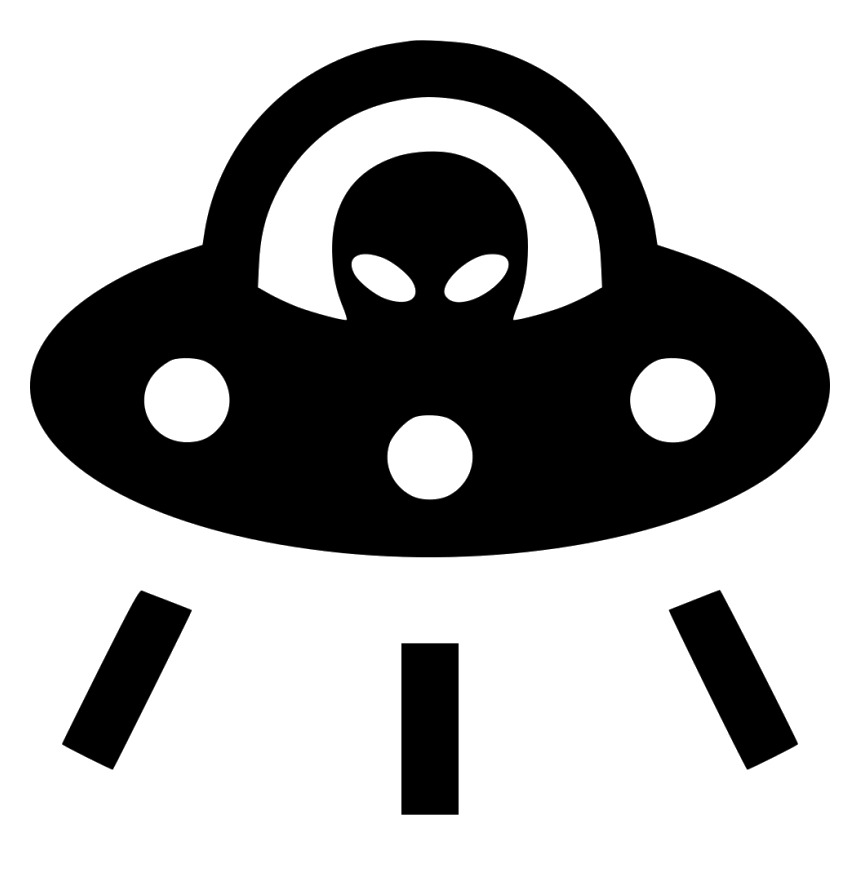
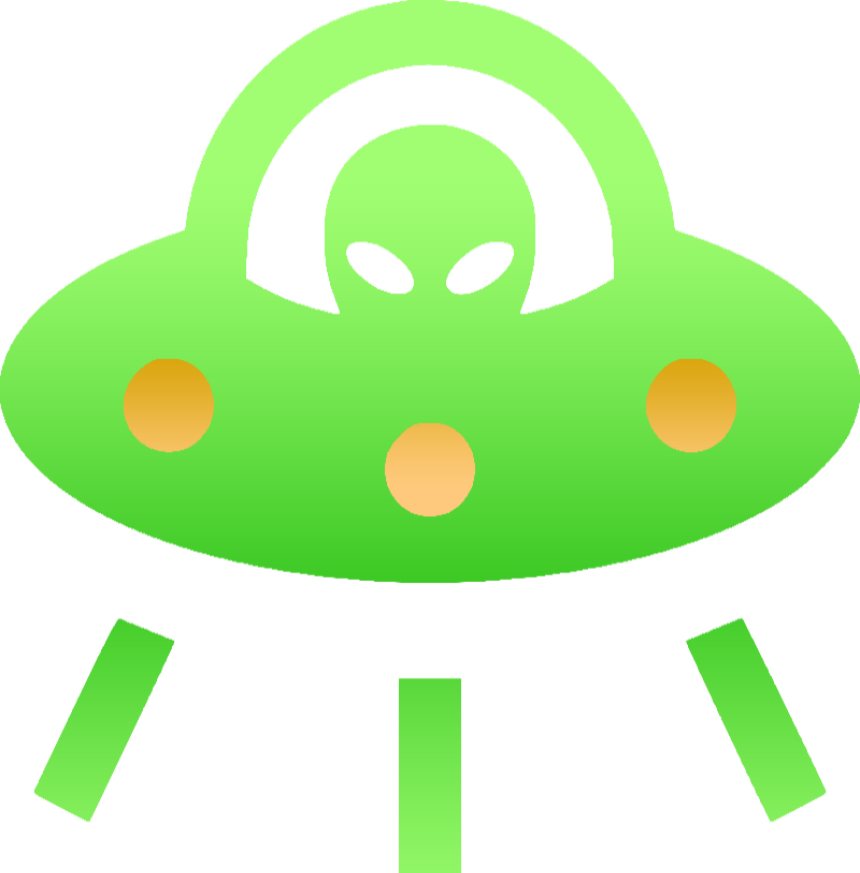
final commit

diff --git a/src/main.rs b/src/main.rs
@@ -12,14 +12,43 @@ use player::*;
 use enemy::*;
 use bullet::*;
 
-fn draw_planet(d: &mut RaylibDrawHandle, cir: &Circle) {
-    d.draw_circle(cir.center.x as i32, cir.center.y as i32, cir.radius, Color::ORANGE);
+
+fn draw_planet(d: &mut RaylibDrawHandle, cir: &Circle, texture: &Texture2D, angle: f32) {
+    //d.draw_circle_lines(cir.center.x as i32, cir.center.y as i32, cir.radius, Color::ORANGE);
+    let src = Rectangle::new (
+        0.0,
+        0.0,
+        texture.width as f32,
+        texture.height as f32,
+    );
+    let rect: Rectangle = Rectangle::new(cir.center.x, cir.center.y, cir.radius*2.0, cir.radius*2.0);
+
+    d.draw_texture_pro(texture, src, rect, Vector2::new(rect.width/2.0, rect.height/2.0), angle, Color::WHITE);
+}
+
+fn draw_bg(d: &mut RaylibDrawHandle, texture: &Texture2D) {
+    //d.draw_circle_lines(cir.center.x as i32, cir.center.y as i32, cir.radius, Color::ORANGE);
+    let src = Rectangle::new (
+        0.0,
+        0.0,
+        texture.width as f32,
+        texture.height as f32,
+    );
+
+    let rect: Rectangle = Rectangle::new(
+        0.0,
+        0.0,
+        1280.0,
+        960.0
+    );
+
+    d.draw_texture_pro(texture, src, rect, Vector2::new(0.0, 0.0), 0.0, Color::WHITE);
 }
 
 fn main() {
     let (mut rl, thread) = raylib::init()
         .size(1280, 960)
-        .title("Rusty ahh window")
+        .title("Rust defenders")
         .build();
 
     let width = rl.get_screen_width();
@@ -41,18 +70,22 @@ fn main() {
         angle: 0.0,
         radius: 270.0,
         theta: 0.0,
-        speed: 5.0,
+        speed: 2.0,
         score: 0,
     };
+
+    let mut angle: f32 = 0.0;
 
     let mut enemies: Vec<Enemy> = Vec::new();
     create_enemies(&mut enemies, 10);
 
     let mut bullets: Vec<Bullet> = Vec::new();
 
-    let mut playerTex = rl.load_texture(&thread, "ufo.png").unwrap();
-    let mut bulletTex = rl.load_texture(&thread, "bullet.png").unwrap();
-    let mut rockTex   = rl.load_texture(&thread, "whiteRock.png").unwrap();
+    let playerTex = rl.load_texture(&thread, "ufo.png").unwrap();
+    let bulletTex = rl.load_texture(&thread, "bullet.png").unwrap();
+    let rockTex   = rl.load_texture(&thread, "whiteRock.png").unwrap();
+    let planetTex = rl.load_texture(&thread, "rustplanet.png").unwrap();
+    let bgTex     = rl.load_texture(&thread, "bg.png").unwrap();
 
     while !rl.window_should_close() {
         let mut d = rl.begin_drawing(&thread);
@@ -61,18 +94,22 @@ fn main() {
 
         d.clear_background(Color::WHITE);
 
-        draw_planet(&mut d, &planet);
+
+        angle += 10.0 * dt;
+        draw_bg(&mut d, &bgTex);
 
         update_player(&mut d, &mut player, &mut planet, dt);
         draw_player(&mut d, &player, &thread, &playerTex);
 
         draw_enemies(&mut d, &enemies, &rockTex);
-        update_enemies(&mut d, &mut planet, &mut enemies, &mut player, dt);
+        update_enemies(&mut d, &mut planet, &mut enemies, &mut bullets, &mut player, dt);
 
         create_bullet(&mut d, &mut bullets, &player);
         // pub fn update_bullet(d: &mut RaylibDrawHandle, player: &mut Player, bullet: &mut Vec<Bullet>, enemies: &mut Vec<Enemy>, planet: Circle, dt: f32) {
         update_bullet(&mut d, &mut player, &mut bullets, &mut enemies, &planet, dt);
         draw_bullet(&mut d, &bullets, &bulletTex);
+
+        draw_planet(&mut d, &planet, &planetTex, angle);
 
         let mut s = String::new();
         write!(&mut s, "score = {}", player.score).unwrap();

diff --git a/src/enemy.rs b/src/enemy.rs
@@ -3,13 +3,13 @@ use rand::Rng;
 
 use crate::types::Circle;
 use crate::player::*;
+use crate::bullet::*;
 
 #[repr(i32)]
 pub enum Type {
     ROCK_RED,
     ROCK_YELLOW,
     ROCK_GREEN,
-    ROCK_BLUE,
 }
 
 impl Type{
@@ -18,7 +18,6 @@ impl Type{
             0 => Some(Self::ROCK_RED),
             1 => Some(Self::ROCK_YELLOW),
             2 => Some(Self::ROCK_GREEN),
-            3 => Some(Self::ROCK_BLUE),
             _ => None,
         }
     }
@@ -31,6 +30,7 @@ pub struct Enemy {
     pub radius: f32,
     pub theta: f32,
     pub etype: Type,
+    pub offset: Vector2,
 }
 
 pub fn spawn_outside_screen(rng: &mut impl Rng) -> (f32, f32) {
@@ -68,19 +68,22 @@ pub fn create_enemies(enemies: &mut Vec<Enemy>, n: i32) {
 
     for i in 0..n {
         let (x, y) = spawn_outside_screen(&mut rng);
+        let mut sizex = rng.gen_range(15.0..60.0);
+        let mut sizey = rng.gen_range(15.0..60.0);
 
         enemies.push(Enemy {
             rect: Rectangle::new(
                 x,
                 y,
-                30.0,
-                30.0,
+                sizex,
+                sizey,
             ),
             speed:  rng.gen_range(30.0..200.0),
             angle:  rng.gen_range(0.0..360.0),
             radius: 15.0,
             theta:  0.0,
-            etype: Type::from_i32(rng.gen_range(0..4)).expect("eType Failed"),
+            etype: Type::from_i32(rng.gen_range(0..3)).expect("eType Failed"),
+            offset: Vector2::new(0.0, 0.0),
         });
     }
 }
@@ -95,28 +98,19 @@ pub fn draw_enemies(d: &mut RaylibDrawHandle, enemies: &Vec<Enemy>, texture: &Te
 
     for i in 0..enemies.len() {
         let mut color: Color;
-        let mut x: i32;
 
         match enemies[i].etype {
             Type::ROCK_RED      => {
                 color = Color::RED;
-                x = 0;
             }
             Type::ROCK_YELLOW   => { 
                 color = Color::new(255, 220, 90, 255);
-                x = 1;
             }
             Type::ROCK_GREEN    => {
                 color = Color::GREEN;
-                x = 2;
-            }
-            Type::ROCK_BLUE     => {
-                color = Color::CYAN;
-                x = 3;
             }
             _ => {
-                color = Color::CYAN;
-                x = 3;
+                color = Color::WHITE;
             }
         };
 
@@ -124,62 +118,63 @@ pub fn draw_enemies(d: &mut RaylibDrawHandle, enemies: &Vec<Enemy>, texture: &Te
     }
 }
 
-pub fn update_enemies(d: &mut RaylibDrawHandle, planet: &mut Circle, enemies: &mut Vec<Enemy>, player: &mut Player, dt: f32) {
+pub fn update_enemies(d: &mut RaylibDrawHandle, planet: &mut Circle, enemies: &mut Vec<Enemy>, bullets: &mut Vec<Bullet>, player: &mut Player, dt: f32) {
     let mut rng = rand::thread_rng();
 
     for i in 0..enemies.len() {
-
-        let playerCenter = Vector2 { 
+        let playerCenter = Vector2 {
             x: player.hitbox.center.x,
             y: player.hitbox.center.y 
         };
-        let planetCenter = Vector2 { 
+        let planetCenter = Vector2 {
             x: planet.center.x,
             y: planet.center.y 
         };
-        let enemyCenter  = Vector2 { 
+        let enemyCenter  = Vector2 {
             x: enemies[i].rect.x,
             y: enemies[i].rect.y,
         };
 
+        enemies[i].angle += enemies[i].speed * dt;
+
         let playerRadius = player.hitbox.radius;
         let planetRadius = planet.radius;
-        let enemyRadius  = enemies[i].radius;
 
-        if check_collision_circles(planetCenter, planetRadius, enemyCenter, enemyRadius) {
+        if enemies[i].rect.check_collision_circle_rec(planetCenter, planetRadius) {
             player.score -= 10;
             let (x, y) = spawn_outside_screen(&mut rng);
             enemies[i].rect.x = x;
             enemies[i].rect.y = y;
+            enemies[i].offset.x = rng.gen_range(-200.0..200.0);
+            enemies[i].offset.y = rng.gen_range(-200.0..200.0);
         }
 
-        if check_collision_circles(playerCenter, playerRadius, enemyCenter, enemyRadius) {
+        if enemies[i].rect.check_collision_circle_rec(playerCenter, playerRadius) {
             let mut contact_penalty: i32 = 0;
+
             match enemies[i].etype {
                 Type::ROCK_RED      => {
                     contact_penalty = -100;
                 }
-                Type::ROCK_YELLOW   => { 
+                Type::ROCK_YELLOW   => {
                     contact_penalty = -50;
                 }
                 Type::ROCK_GREEN    => {
-                    contact_penalty = 10;
-                }
-                Type::ROCK_BLUE     => {
                     contact_penalty = 100;
                 }
                 _ => {
                     contact_penalty = 0;
                 }
             };
+
             player.score -= contact_penalty;
             let (x, y) = spawn_outside_screen(&mut rng);
             enemies[i].rect.x = x;
             enemies[i].rect.y = y;
         }
 
-        let dx = planet.center.x - enemies[i].rect.x;
-        let dy = planet.center.y - enemies[i].rect.y;
+        let dx = planet.center.x + enemies[i].offset.x - enemies[i].rect.x;
+        let dy = planet.center.y + enemies[i].offset.y - enemies[i].rect.y;
 
         let dist = (dx * dx + dy * dy).sqrt();
 

diff --git a/src/bullet.rs b/src/bullet.rs
@@ -87,6 +87,6 @@ pub fn draw_bullet(d: &mut RaylibDrawHandle, bullet: &Vec<Bullet>, texture: &Tex
     );
 
     for i in 0..bullet.len() {
-        d.draw_texture_pro(texture, src, bullet[i].rect, Vector2::new(bullet[i].rect.width/2.0, bullet[i].rect.height/2.0), bullet[i].angle, Color::RED);
+        d.draw_texture_pro(texture, src, bullet[i].rect, Vector2::new(bullet[i].rect.width/2.0, bullet[i].rect.height/2.0), bullet[i].angle, Color::WHITE);
     }
 }

diff --git a/src/player.rs b/src/player.rs
@@ -45,5 +45,5 @@ pub fn draw_player(d: &mut RaylibDrawHandle, player: &Player, thread: &RaylibThr
         texture.height as f32,
     );
 
-    d.draw_texture_pro(texture, src, player.rect, Vector2::new(player.rect.width/2.0, player.rect.height/2.0), player.angle, Color::WHITE);
+    d.draw_texture_pro(texture, src, player.rect, Vector2::new(player.rect.width/2.0, player.rect.height/2.0), player.angle, Color::ORANGE);
 }